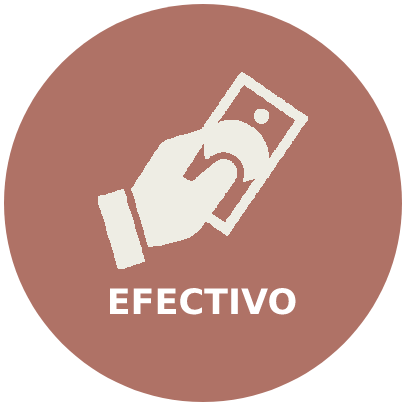
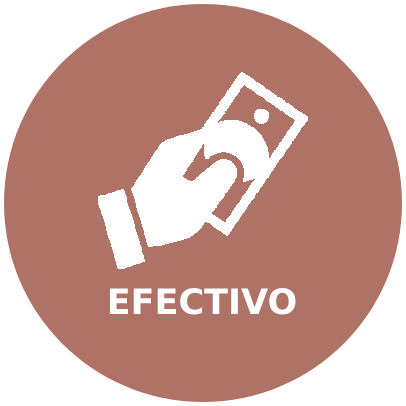
arreglé img ComoComprar

Changed region(s): [[0.2365, 0.1773, 0.7685, 0.6798]]

diff --git a/scss/pages/_comocomprar.scss b/scss/pages/_comocomprar.scss
@@ -11,7 +11,7 @@ h1 {
 .comocomprar__formwp {
     @include flex(row, space-evenly);
     .comocomprar__formwp--form, .comocomprar__formwp--wp {
-        background-color: $primary-color;
+        background-color: $secondary-color;
         border-radius: 50%;
         color: $background-color2;
         height: 14rem;
@@ -21,7 +21,7 @@ h1 {
     }
     a {
         .comocomprar__icon {
-            color: $background-color;
+            color: $tertiary-color;
             text-shadow: 1px 1px 5px $primary-color;
             font-size: 10rem;
             transition: 1s;
@@ -72,7 +72,7 @@ h1 {
     img {
         width: 37rem;
         height: auto;
-        margin:3rem 3rem;
+        margin:3rem;
         box-shadow: 2px 2px 2px $primary-color;
         border-color: 3px black;
     }
@@ -99,9 +99,9 @@ h2{
     @include flex(row, space-evenly);
     .comocomprar__modopago {
         @include flex(column, center);
-        background-color: $accent-color;
+        background-color: $secondary-color;
         border-radius: 15%;
-        box-shadow: 2px 2px 5px $detail-color;
+        box-shadow: 2px 2px 5px $primary-color;
         padding: 3rem;
         margin:2rem 0rem 4rem 0rem;
         .comocomprar__modopago3 {
@@ -115,9 +115,9 @@ h2{
     }
     .comocomprar__entrega {
         @include flex(column, center);
-        background-color: $accent-color;
+        background-color: $secondary-color;
         border-radius: 15%;
-        box-shadow: 2px 2px 5px $detail-color;
+        box-shadow: 2px 2px 5px $primary-color;
         padding: 3rem;
         margin:2rem 0rem 4rem 0rem;
         .comocomprar__entrega2 {
@@ -138,8 +138,39 @@ h2{
 @media screen and (min-width: 0px) and (max-width: 767px) {
 
     .comocomprar__row, .comocomprar__container-fluid, .columns {padding: 0rem; margin:0rem;}
+    .comocomprar__paso {
+        .comocomprar__num {
+            background-color: $primary-color;
+            border-radius: 50%;
+            color: $background-color2;
+            height: 5rem;
+            width: 5rem;
+            text-align: center;
+            @include main-font(3rem);
+            margin-left: 1rem;
+        }
+        h2 {
+            @include title-font(2rem, .5rem);
+            color:$heading-color;
+            text-align: start;
+        }
+    }
+
+    /* Paso 1 */
 
     .comocomprar__paso1--img {@include flex(column, center);}
+
+    /* Paso 2 */
+
+    .comocomprar__paso2--img {
+        img {
+            width: 80%;
+            height: auto;
+            margin:1rem 1rem 3rem 1rem;
+        }
+    }
+
+    /* Paso 3 */
 
     .comocomprar__paso3--2 {@include flex(column, center);
         .comocomprar__entrega {

diff --git a/css/style.css b/css/style.css
@@ -803,7 +803,7 @@ h1 {
   justify-content: space-evenly;
   flex-direction: row; }
   .comocomprar__formwp .comocomprar__formwp--form, .comocomprar__formwp .comocomprar__formwp--wp {
-    background-color: #a38c8c;
+    background-color: #d2c2be;
     border-radius: 50%;
     color: #f0ede8;
     height: 14rem;
@@ -811,7 +811,7 @@ h1 {
     text-align: center;
     margin: 2rem 3rem; }
   .comocomprar__formwp a .comocomprar__icon {
-    color: #fcfbf2;
+    color: whitesmoke;
     text-shadow: 1px 1px 5px #a38c8c;
     font-size: 10rem;
     transition: 1s;
@@ -870,7 +870,7 @@ h1 {
   .comocomprar__paso2--img img {
     width: 37rem;
     height: auto;
-    margin: 3rem 3rem;
+    margin: 3rem;
     box-shadow: 2px 2px 2px #a38c8c;
     border-color: 3px black; }
 
@@ -904,9 +904,9 @@ h2 {
     align-items: center;
     justify-content: center;
     flex-direction: column;
-    background-color: #d39285;
+    background-color: #d2c2be;
     border-radius: 15%;
-    box-shadow: 2px 2px 5px #af7266;
+    box-shadow: 2px 2px 5px #a38c8c;
     padding: 3rem;
     margin: 2rem 0rem 4rem 0rem; }
     .comocomprar__paso3--2 .comocomprar__modopago .comocomprar__modopago3 {
@@ -923,9 +923,9 @@ h2 {
     align-items: center;
     justify-content: center;
     flex-direction: column;
-    background-color: #d39285;
+    background-color: #d2c2be;
     border-radius: 15%;
-    box-shadow: 2px 2px 5px #af7266;
+    box-shadow: 2px 2px 5px #a38c8c;
     padding: 3rem;
     margin: 2rem 0rem 4rem 0rem; }
     .comocomprar__paso3--2 .comocomprar__entrega .comocomprar__entrega2 {
@@ -943,11 +943,39 @@ h2 {
   .comocomprar__row, .comocomprar__container-fluid, .columns {
     padding: 0rem;
     margin: 0rem; }
+  .comocomprar__paso .comocomprar__num {
+    background-color: #a38c8c;
+    border-radius: 50%;
+    color: #f0ede8;
+    height: 5rem;
+    width: 5rem;
+    text-align: center;
+    font-family: "Space Mono", monospace, !important;
+    text-transform: uppercase;
+    letter-spacing: .3rem;
+    font-size: 3rem;
+    margin-left: 1rem; }
+  .comocomprar__paso h2 {
+    font-family: "Space Mono", monospace;
+    font-weight: bold;
+    text-transform: uppercase;
+    text-align: center;
+    font-size: 2rem;
+    letter-spacing: 0.5rem;
+    color: #30170e;
+    text-align: start; }
+  /* Paso 1 */
   .comocomprar__paso1--img {
     display: flex;
     align-items: center;
     justify-content: center;
     flex-direction: column; }
+  /* Paso 2 */
+  .comocomprar__paso2--img img {
+    width: 80%;
+    height: auto;
+    margin: 1rem 1rem 3rem 1rem; }
+  /* Paso 3 */
   .comocomprar__paso3--2 {
     display: flex;
     align-items: center;
